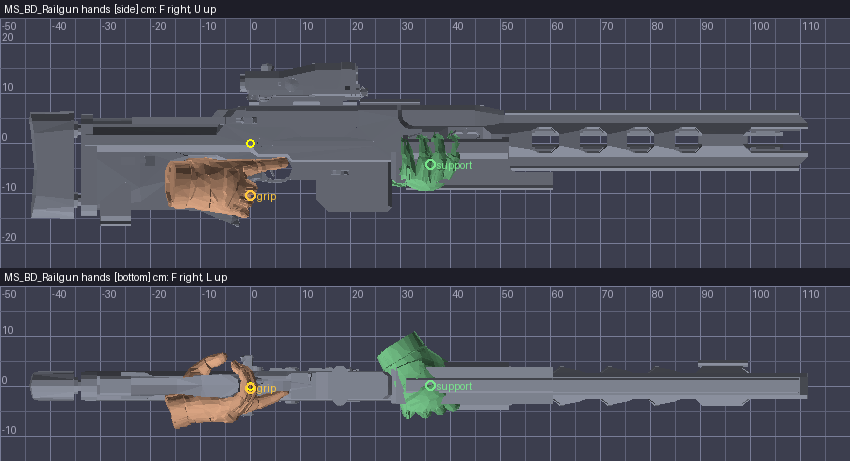
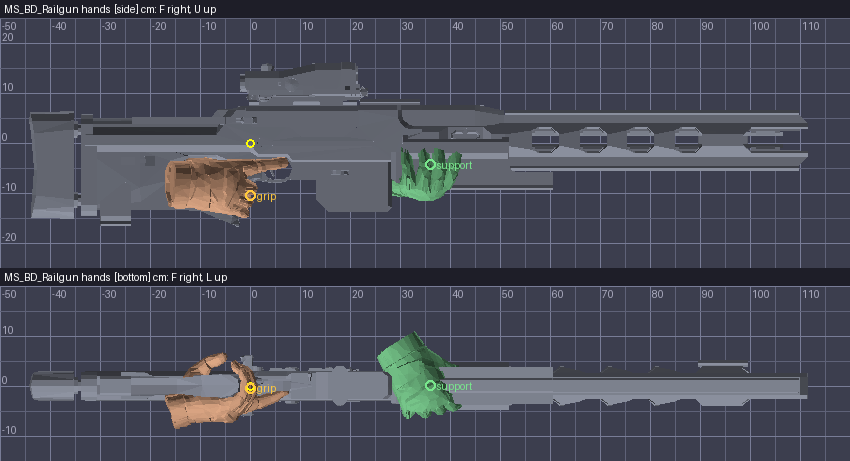
[step M3] railgun support hand 2 cm lower (owner: "offhand could lower just a bit"); SUPPORT_NUDGE records the eye, slot 84
Claude-Session: https://claude.ai/code/session_01Me4ZUpHGbJgk5u3b7yQJai

Changed region(s): [[0.4588, 0.2733, 0.5506, 0.4555], [0.4588, 0.7896, 0.52, 0.8807], [0.52, 0.8503, 0.5506, 0.8807]]

diff --git a/tools/ms/handfit_donors.py b/tools/ms/handfit_donors.py
@@ -46,6 +46,10 @@ REJECT = {
     'MS_VP_Chainsaw': 'owner, 2026-11-08: the fit is "a sad embarrassing mess"; chainsaws go without hands until Handfit (Blender)',
     'MS_VP_Minigun': 'the card\'s grip line (centroid-based) sits on the ammo box, not on the pistol grip under the receiver; the hand landed on the box. Needs the owner\'s grip point (Handfit, or a corrected card)',
 }
+# the owner's eye on a sheet, applied after the ICP (cm, F / L / U): recorded here, never typed into the table
+SUPPORT_NUDGE = {
+    'MS_BD_Railgun': (0.0, 0.0, -2.0),   # owner 2026-11-08 20:56: "offhand could lower just a bit"
+}
 TABLE = os.path.join(ROOT, 'zscript_depot', 'rsq', 'handtable.zs')
 BEGIN = '\t\t// ---- GENERATED by tools/ms/handfit_donors.py: Ermac hands fitted on the card (ICP on the grip line / support feature)'
 END = '\t\t// ---- END GENERATED (handfit_donors)'
@@ -134,6 +138,7 @@ def fit(donor, regions, ermac, outdir):
         if t2 is None:
             row.update(sup='', shook=(0, 0, 0), spoint=(0, 0, 0)); info += '; support: ' + why2
             sheet(donor, it, [HC.hand_item('hand', two, t)], [(*palm, 'grip', (255, 200, 60)), (*sup_at, 'support', (120, 230, 140))], outdir); return row, info
+        if donor in SUPPORT_NUDGE: t2 = t2 + np.array(SUPPORT_NUDGE[donor]); info += '; support nudged %s (owner)' % (SUPPORT_NUDGE[donor],)
         sp = np.array(fp) / 100.0; info += '; support hand2:%d at F%+.1f L%+.1f U%+.1f (%.2f cm)' % (sup, t2[0], t2[1], t2[2], err2)
     row.update(shook=(round(t2[1], 3), round(t2[2], 3), round(-t2[0], 3)), spoint=tuple(float(x) for x in np.round(sp, 3)))
     marks = [(*palm, 'grip', (255, 200, 60))] + ([(*sup_at, 'support', (120, 230, 140))] if sup_at is not None else [])
